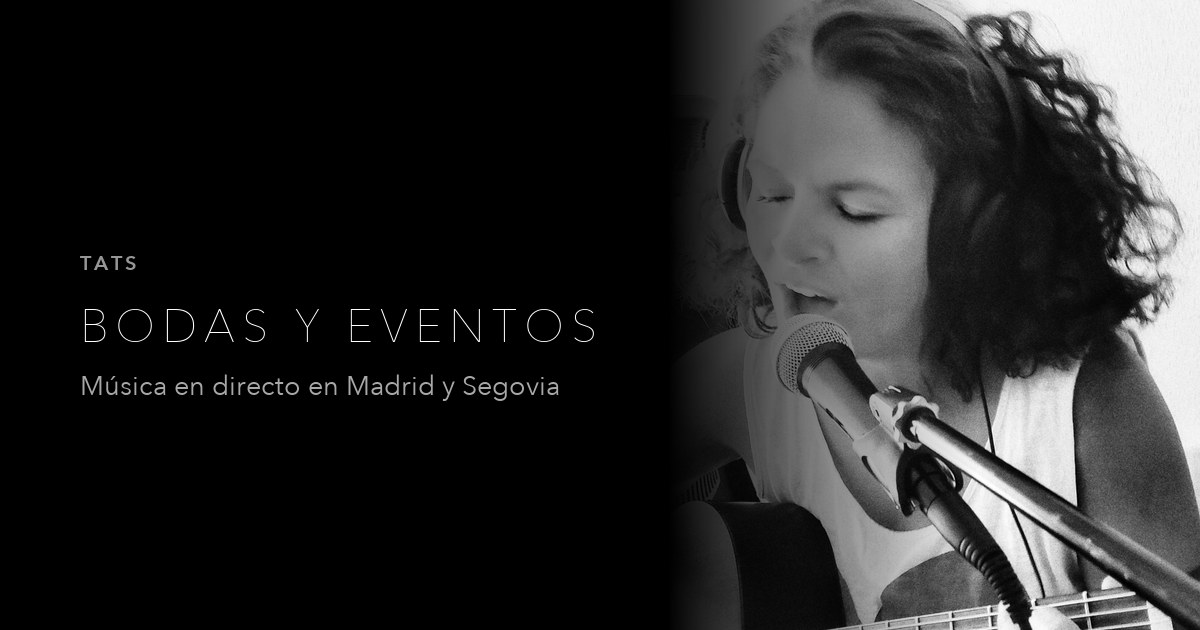
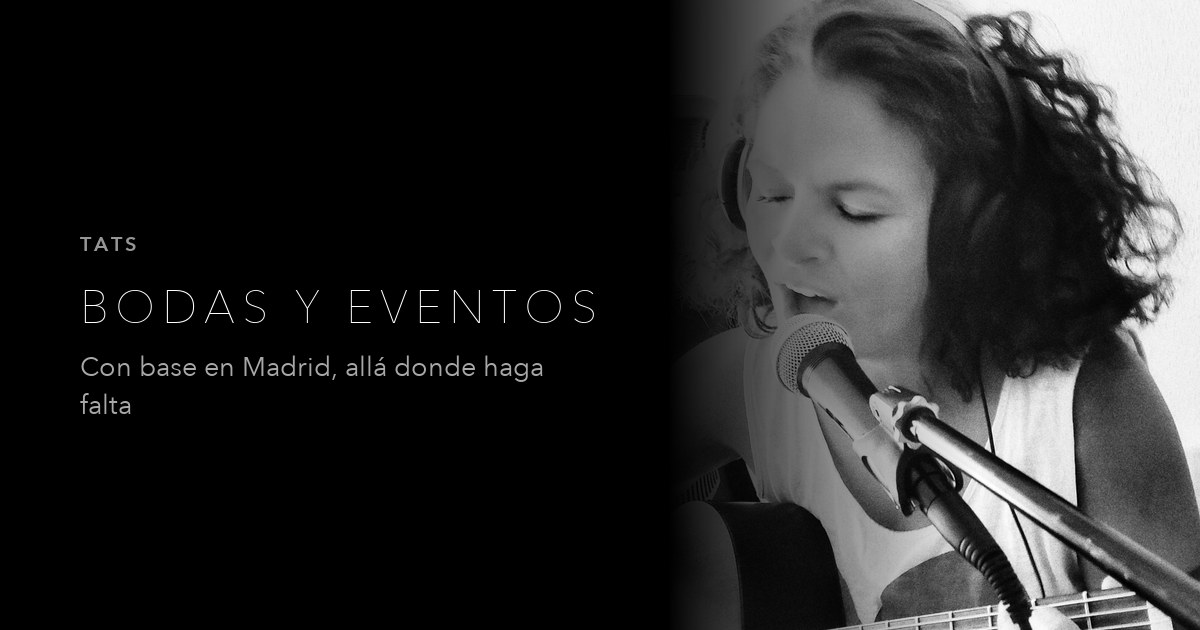
Corrige la zona de servicio: base en Madrid, sin limitarla a provincias
Segovia salia de una inferencia mia equivocada: los carteles que
aparecen en dos fotos de In The Mix anuncian bolos en Villovela de
Piron y Navafria, y convertí "ha tocado alli" en "da servicio alli".
Ademas declarar dos provincias la excluia del resto de busquedas.

- La FAQ de zonas dice que la base es Madrid y que hay disponibilidad
  para desplazarse
- areaServed pasa de dos provincias a España
- Corregido un provider duplicado en el esquema de servicio
- Tarjeta social regenerada sin la mencion a Segovia

diff --git a/app/bodas-y-eventos/page.tsx b/app/bodas-y-eventos/page.tsx
@@ -8,7 +8,7 @@ import { serviceSchema, faqSchema, breadcrumbSchema } from "@/lib/schema";
 export const metadata = pageMetadata({
   title: "Música para bodas y eventos",
   description:
-    "Música en directo para bodas, ceremonias y eventos de empresa en Madrid y Segovia. Formato acústico a dúo o banda de soul y funk, con repertorio adaptado a cada momento.",
+    "Música en directo para bodas, ceremonias y eventos de empresa. Con base en Madrid y disponibilidad para desplazarse. Formato acústico a dúo, banda de soul y funk o voz solista.",
   path: "/bodas-y-eventos",
   image: "/og/bodas-y-eventos.jpg",
   imageAlt: "Tats cantando con guitarra: música en directo para bodas y eventos",
@@ -63,7 +63,7 @@ const faqs = [
   {
     pregunta: "¿En qué zonas tocáis?",
     respuesta:
-      "La base está en Madrid y es la zona habitual de trabajo, con actuaciones también en la provincia de Segovia. Para otras zonas, lo mejor es escribir y consultarlo.",
+      "La base está en Madrid, pero hay disponibilidad para desplazarse a otras ciudades. Escríbeme indicando dónde es el evento y lo vemos.",
   },
   {
     pregunta: "¿Qué formato encaja mejor en una boda?",
@@ -102,7 +102,7 @@ export default function BodasYEventosPage() {
       <div className="container mx-auto max-w-5xl">
         <header className="mb-20 max-w-3xl">
           <span className="text-xs uppercase tracking-widest text-neutral-500 font-medium block mb-4">
-            Madrid y Segovia
+            Con base en Madrid
           </span>
           <h1 className="text-4xl md:text-5xl lg:text-6xl font-bold tracking-tight mb-6 text-white">
             Música en directo para bodas y eventos
@@ -111,7 +111,7 @@ export default function BodasYEventosPage() {
             Más de diez años cantando en directo, en formatos que van del dúo
             acústico a la banda completa. La música se elige según el momento:
             una ceremonia no pide lo mismo que una pista de baile a la una de la
-            madrugada.
+            madrugada. Con base en Madrid y disponibilidad para desplazarse.
           </p>
         </header>
 

diff --git a/lib/schema.ts b/lib/schema.ts
@@ -170,10 +170,13 @@ export function serviceSchema() {
     description:
       "Música en directo para bodas, ceremonias y eventos de empresa en formato acústico a dúo, banda completa o voz solista.",
     provider: { "@id": personId },
-    areaServed: [
-      { "@type": "City", name: "Madrid" },
-      { "@type": "AdministrativeArea", name: "Segovia" },
-    ],
+    // Base en Madrid, pero se acude a otras ciudades: acotar el area a unas
+    // pocas provincias la excluiria del resto de busquedas.
+    areaServed: { "@type": "Country", name: "España" },
+    availableChannel: {
+      "@type": "ServiceChannel",
+      serviceUrl: abs("/bodas-y-eventos"),
+    },
     url: abs("/bodas-y-eventos"),
     image: abs("/og/bodas-y-eventos.jpg"),
   };

diff --git a/scripts/generar-og.py b/scripts/generar-og.py
@@ -116,7 +116,7 @@ if __name__ == "__main__":
          "Poemario de Tatiana Ravassa", "poesia.jpg",
          focus=0.5, eyebrow="Tats")
     make("images/tats/tats-guitarra.jpeg", "Bodas y eventos",
-         "Música en directo en Madrid y Segovia", "bodas-y-eventos.jpg",
+         "Con base en Madrid, allá donde haga falta", "bodas-y-eventos.jpg",
          focus=0.5, eyebrow="Tats")
     make("images/tats/photo4.jpg", "Colaboraciones",
          "Serie semanal con Olcay Yavuz", "colaboraciones.jpg",
